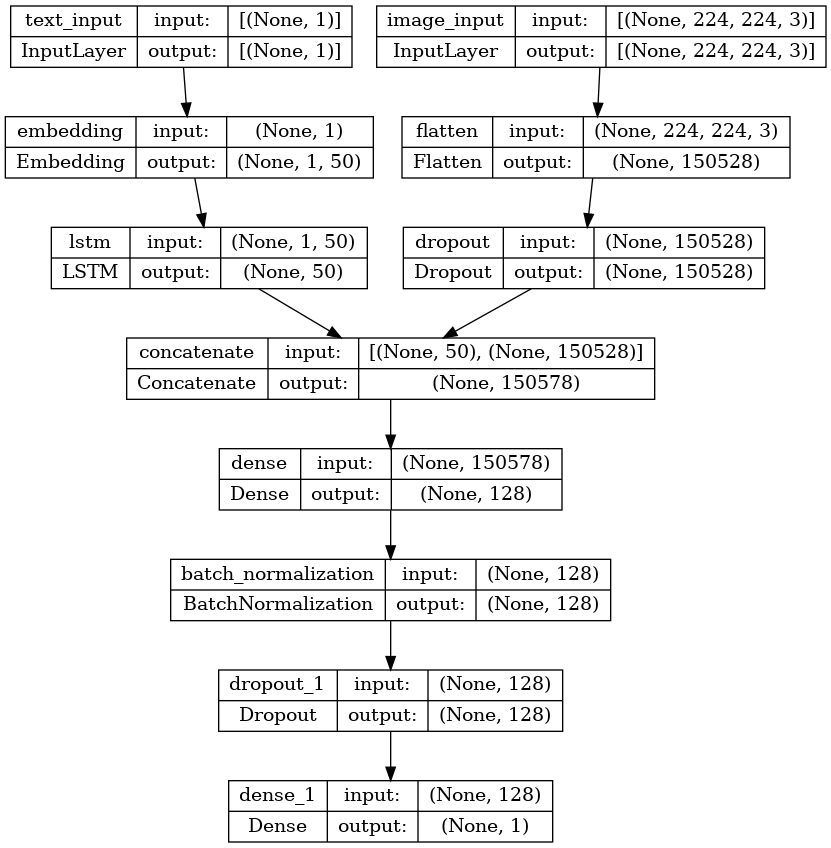
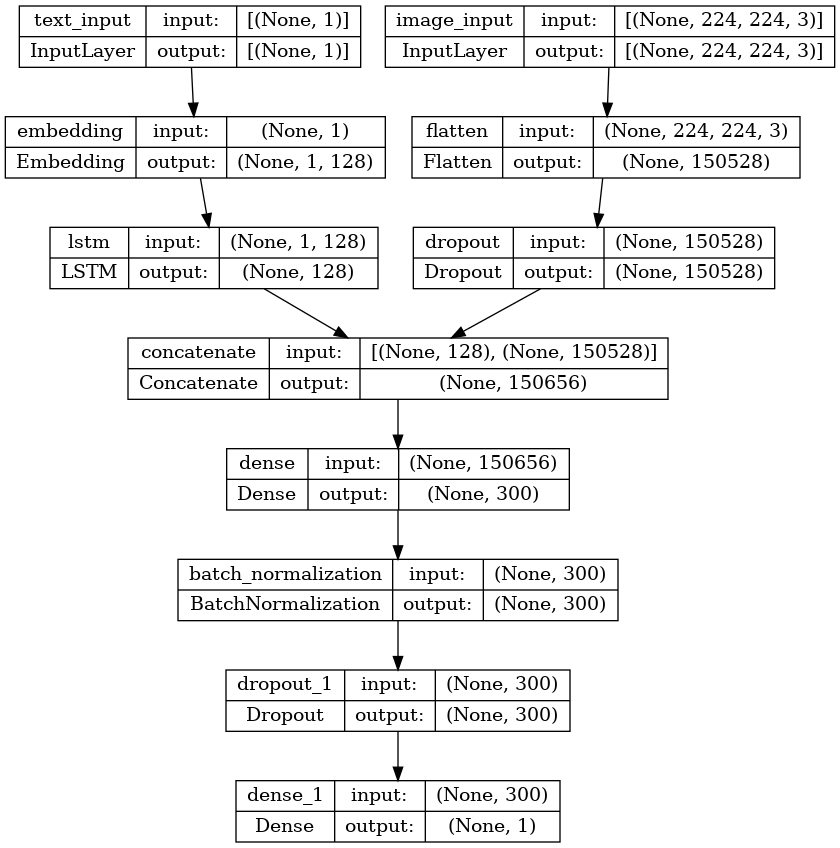
changes with training_plot.png

diff --git a/data/dataset.py b/data/dataset.py
@@ -8,6 +8,15 @@ from keras.preprocessing.text import Tokenizer
 from keras.preprocessing.sequence import pad_sequences
 
 
+def load_and_preprocess_image(image_path_file):
+    img = tf.io.read_file(image_path_file)
+    img = tf.image.decode_jpeg(img, channels=3)
+    target_size = (224, 224)
+    img = tf.image.resize(img, target_size)
+    img /= 255.0  # normalize to [0,1]
+    return img
+
+
 class DatasetLoader:
     def __init__(self):
         self.tokenizer = None
@@ -41,16 +50,12 @@ class DatasetLoader:
         self.label_encoder = LabelEncoder()
 
     def load_dataset(self):
-
         self.load_labels()
         _labels = self.labels
-
         self.load_img_txt_files()
         texts = [item['img_text'] for item in self.tweet_text]
-
         self.load_img_resized_files()
         images_path = self.img_resized_files
-
         return _labels, texts, images_path
 
     def load_img_txt_files(self):
@@ -59,7 +64,6 @@ class DatasetLoader:
         for file_name in os.listdir(img_txt_path):
             if file_name.endswith('.json'):
                 img_txt_file = os.path.join(img_txt_path, file_name)
-
             with open(img_txt_file, 'r') as file:
                 data = json.load(file)
                 all_json_files.append(data)
@@ -78,23 +82,13 @@ class DatasetLoader:
     def load_labels(self):
         # MMHS150K_GT
         dataset_file_path = database_path['MMHS150K_GT_json_file']
-        dict_dataset = None
         with open(dataset_file_path, 'r') as file:
             dict_dataset = json.load(file)
-
         for key in dict_dataset:
             info = dict_dataset[key]
             _labels = info['labels']
             result_string = ','.join(map(str, _labels))
             self.labels.append(result_string)
-
-    def load_and_preprocess_image(self, image_path_file):
-        img = tf.io.read_file(image_path_file)
-        img = tf.image.decode_jpeg(img, channels=3)
-        target_size = (224, 224)
-        img = tf.image.resize(img, target_size)
-        img /= 255.0  # normalize to [0,1]
-        return img
 
     def load_mmhs150k(self):
         # MMHS150K_GT
@@ -144,7 +138,7 @@ class DatasetLoader:
         # create a slice of the dataset to train
         self.train_text_dataset = tf.data.Dataset.from_tensor_slices(self.tweet_text_train)
         self.train_image_dataset = tf.data.Dataset.from_tensor_slices(self.img_resized_train)
-        self.train_image_dataset = self.train_image_dataset.map(self.load_and_preprocess_image)
+        self.train_image_dataset = self.train_image_dataset.map(load_and_preprocess_image)
         self.train_labels_dataset = tf.data.Dataset.from_tensor_slices(self.labels_train)
 
         # combine training datasets
@@ -156,7 +150,7 @@ class DatasetLoader:
         # create a slice of the dataset to test
         self.test_text_dataset = tf.data.Dataset.from_tensor_slices(self.tweet_text_test)
         self.test_image_dataset = tf.data.Dataset.from_tensor_slices(self.img_resized_test)
-        self.test_image_dataset = self.test_image_dataset.map(self.load_and_preprocess_image)
+        self.test_image_dataset = self.test_image_dataset.map(load_and_preprocess_image)
         self.test_labels_dataset = tf.data.Dataset.from_tensor_slices(self.labels_test)
 
         # combine the test datasets
@@ -168,7 +162,7 @@ class DatasetLoader:
         # create a slice of the dataset to validation
         self.val_text_dataset = tf.data.Dataset.from_tensor_slices(self.tweet_text_val)
         self.val_image_dataset = tf.data.Dataset.from_tensor_slices(self.img_resized_val)
-        self.val_image_dataset = self.val_image_dataset.map(self.load_and_preprocess_image)
+        self.val_image_dataset = self.val_image_dataset.map(load_and_preprocess_image)
         self.val_labels_dataset = tf.data.Dataset.from_tensor_slices(self.labels_val)
 
         self.val_hatespeech_dataset = tf.data.Dataset.zip({

diff --git a/models/multimodel.py b/models/multimodel.py
@@ -5,7 +5,10 @@ from keras.utils import plot_model
 from keras.callbacks import EarlyStopping
 from data.dataset import DatasetLoader
 import matplotlib.pyplot as plt
-import numpy as np
+
+
+def plot_evaluate_result(eval_metrics):
+    pass
 
 
 def plot_training_result(training_history):
@@ -49,24 +52,16 @@ class Hatespeech:
         word_size = len(tokenizer.word_index) + 1
         text_input = Input(shape=(1,), dtype='int32', name='text_input')
         embedded_text = Embedding(input_dim=word_size,
-                                  output_dim=50,
+                                  output_dim=128,
                                   input_length=self.max_sequence_length)(text_input)
-        lstm_text = LSTM(50)(embedded_text)
-
-        # Image
-        # image_input = Input(shape=(224, 224, 3), name='image_input')
-        # flattened_image = Flatten()(image_input)
-        #
-        # merged = concatenate([lstm_text, flattened_image])
-        # dense1 = Dense(128, activation='relu')(merged)
-        # output = Dense(1, activation='softmax')(dense1)
+        lstm_text = LSTM(128)(embedded_text)
 
         image_input = Input(shape=(224, 224, 3), name='image_input')
         flattened_image = Flatten()(image_input)
         flattened_image = Dropout(0.2)(flattened_image)
 
         merged = concatenate([lstm_text, flattened_image])
-        merged = Dense(128, activation='relu')(merged)
+        merged = Dense(300, activation='relu')(merged)
         merged = BatchNormalization()(merged)
         merged = Dropout(0.3)(merged)
 
@@ -101,21 +96,10 @@ class Hatespeech:
         iterator = self.dataset_loader.train_hatespeech_dataset.as_numpy_iterator()
         text_data, image_data, labels = next(iterator)
         val_iterator = next(self.dataset_loader.val_hatespeech_dataset.as_numpy_iterator())
-        # val_text_data, val_image_data, val_labels_data = next(val_iterator)
         val_text_data = val_iterator['text_data']
         val_image_data = val_iterator['image_data']
         val_labels_data = val_iterator['label_data']
-        # val_labels_data = np.array(self.dataset_loader.labels_val)
-
         early_stopping = EarlyStopping(monitor='val_loss', patience=3, restore_best_weights=True)
-        # callbacks=[early_stopping]
-        # training_history = self.model.fit([text_data, image_data],
-        #                                   labels,
-        #                                   batch_size=31,
-        #                                   epochs=10,
-        #                                   validation_data=(val_text_data, val_image_data, val_labels_data),
-        #                                   callbacks=[early_stopping])
-        # plot_training_result(training_history)
         training_history = self.model.fit(x=[text_data, image_data],
                                           y=labels,
                                           epochs=250,
@@ -128,6 +112,7 @@ class Hatespeech:
         text_test_data, image_test_data, labels_test_data = next(iterator)
 
         results = self.model.evaluate([text_test_data, image_test_data], labels_test_data)
+        plot_evaluate_result(results)
         print("Test loss: ", results[0])
         print("Test accuracy: ", results[1])
         pass
